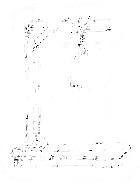
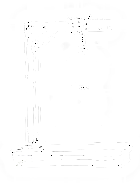
ajout de commentaire a l'ensemble, changement image pendu, ajout fonction wordUpperCase pour la liste de mot

diff --git a/js/initFunction.js b/js/initFunction.js
@@ -1,3 +1,62 @@
+// fonction du random
+const getRandomInt = (min, max) => {
+    min = Math.ceil(min);
+    max = Math.floor(max);
+    return Math.floor(Math.random() * (max - min + 1)) + min;
+  }
+  
+// Conversion des tableaus en majuscule
+function lowerToUpper(){
+    for (let word of wordsToUpperCase){
+        let toUpper = word.toLocaleUpperCase();
+        words.push(toUpper);        
+    }
+    return words;
+} 
+
+// fonction qui permet de choisir un mot de la liste au hazar
+const pickWord = () => {
+    const randomIndex = getRandomInt(0, words.length - 1);
+    return words[randomIndex];
+};
+
+// fonction pour la création du tableau de lettre du mot rechercher
+const getWordMapping = (word) => {
+    const wordArr = word.split('');
+    const wordMapping = wordArr.map((letter, index) => {
+        let isVisible = false;
+        if (index === 0 || index == wordArr.length - 1) {
+            isVisible = true;
+        }
+        return {
+            letter, 
+            isVisible
+        };
+    });
+    return wordMapping;
+};
+
+// fonction de génération du clavier de lettre
+const generateChoices = () => {
+    const choices = [];
+    for(let index = 65; index <= 90; index++) {
+        choices.push(String.fromCharCode(index));
+    }
+    return choices;
+};
+
+// fonction qui recupere la lettre choisi par l'utilisateur
+const getChoicesMapping = (choices) => {
+    const choicesMapping = choices.map((letter) => {
+        return {
+            letter,
+            isChosen: false
+        };
+    });
+    return choicesMapping;
+};
+
+//fonction de l'affichage de la lettre par l'utilisateur
 const displayChoices = (choicesMapping) => {
     const choicesHtml = choicesMapping.map((letterMapping) => {
         if (letterMapping.isChosen === false) {
@@ -9,11 +68,13 @@ const displayChoices = (choicesMapping) => {
     els.choices.querySelector('ul').innerHTML = choicesHtml.join('');
 };
 
+// fonction d'affichage du score restant avant la mort
 const displayScore = () => {
-    // els.score.innerHTML = `${scoreCount} / ${maxScore}`;
-    els.score.innerHTML = `<img src="img/pendu/0${scoreCount}.png" alt="hangman" />`;
+    // els.score.innerHTML = `${scoreCount} / ${maxScore}`;  <== version en donnée brut 
+    els.score.innerHTML = `<img src="img/pendu/0${scoreCount}.png" alt="hangman" />`; // version avec image du pendu
 };
 
+// fonction de remplacement des lettres par des underscores
 const displayWord = (wordMapping) => {
     const wordHtml = wordMapping.map((letterMapping) => {
         if (letterMapping.isVisible === true) {
@@ -26,44 +87,17 @@ const displayWord = (wordMapping) => {
     els.answer.querySelector('ul').innerHTML = wordHtml.join('');
 };
 
-const generateChoices = () => {
-    const choices = [];
-    for(let index = 65; index <= 90; index++) {
-        choices.push(String.fromCharCode(index));
-    }
-    return choices;
-};
+// fonction d'affichage de fin de partie
 
-const getChoicesMapping = (choices) => {
-    const choicesMapping = choices.map((letter) => {
-        return {
-            letter,
-            isChosen: false
-        };
-    });
-    return choicesMapping;
-};
-
-const getWordMapping = (word) => {
-    const wordArr = word.split('');
-    // console.log('word', word);
-    // console.log('wordArr', wordArr);
-    const wordMapping = wordArr.map((letter, index) => {
-        let isVisible = false;
-        if (index === 0 || index == wordArr.length - 1) {
-            isVisible = true;
-        }
-
-        return {
-            letter,
-            isVisible
-        };
-    });
-    return wordMapping;
-};
-
-const pickWord = () => {
-    const randomIndex = getRandomInt(0, words.length - 1);
-
-    return words[randomIndex];
-};
+// Si le score == maxscore: "tu est mort"
+const endGame = () => {
+    wordMapping.forEach(w => w.isVisible = true);
+    displayWord(wordMapping);
+    document.querySelector('body').style.backgroundColor = 'red';
+    els.choices.innerHTML = `<h1 class="d-flex justify-content-center col-lg-12">Vous êtes mort !</h1>`;
+  };
+  
+  // si le mot est trouvé: "tu est libre"
+  const winGame = () => {
+    els.choices.innerHTML = `<h1 class="d-flex justify-content-center col-lg-12">Courez!! vous êtes libre</h1>`;
+  }

diff --git a/js/main.js b/js/main.js
@@ -1,49 +1,44 @@
+// création du tableau des éléments HTML
 const els = {
   score: null,
   answer: null,
   choices: null
 };
 
-// const words = [
-//   'JAVASCRIPT', // words[0]
-//   'STYLESHEET', // words[1]
-//   'LANGUAGE' // words[2]
-// ];
-
+// déclaration des différentes variables nécessaire
 let choices = [];
 let word = '';
 let wordMapping = [];
 let choicesMapping = [];
 let scoreCount = 0;
 let maxScore = 8;
+let words = [];
 
-
+//initialisation et execution du jeu 
 const init = () => {
-  // console.log('>> #init');
 
-  // Attach elements
+  // définition des elements html
   els.score = document.querySelector('#score');
   els.answer = document.querySelector('#answer');
   els.choices = document.querySelector('#choices');
 
-  // Pick word
+  // Transforme tout les mot en majuscule
+  lowerToUpper();
+  // choix du mot
   word = pickWord();
-  // console.log('word', word);
-  //  - create word mapping
+  // création du mot en liste de lettre
   wordMapping = getWordMapping(word);
-  console.log('wordMapping', wordMapping);
-  // Generate choices
+  // Generation du choix de lettre
   choices = generateChoices();
-  // console.log(choices);
-  //  - create choices mapping
+  // recupération du choix de la lettre
   choicesMapping = getChoicesMapping(choices);
-  // console.log(choicesMapping);
-  // Display word
+  // affichage du mot
   displayWord(wordMapping);
-  // Display choices
+  // affichage du clavier de lettre
   displayChoices(choicesMapping);
   // Display score
   // displayScore();
+
   // Listen events
   //    - mouse events
   els.choices.addEventListener('click', ({
@@ -54,12 +49,9 @@ const init = () => {
       checkLetter(target.innerHTML);
     }
   });
+
   //    - keyboard events
-  document.addEventListener('keydown', ({
-    keyCode
-  }) => {
-    // evt:KeyboardEvent evt.keyCode => { keyCode }
-    // console.log('keyCode', keyCode);
+  document.addEventListener('keydown', ({keyCode}) => {
     const letter = String.fromCharCode(keyCode);
     // console.log('letter', letter);
     if (keyCode >= 65 && keyCode <= 90) {
@@ -69,29 +61,29 @@ const init = () => {
 };
 
 // verification de la lettre
-//  - si elle n'est pas dans le mot: ajout de 1 au score
-//  - si elle est dans le mot: afficher la letre
-
 const checkLetter = (letter) => {
-  console.log(letter);
+
   let isLetterInWord = false;
   let isAllLettersFound = true;
-  // console.log('isLetterWord before loop', isLetterInWord);
+
+  //  - si elle est dans le mot: afficher la letre
   wordMapping.forEach((letterMapping) => {
-    // console.log('letterMapping.letter', letterMapping.letter);
     if (letterMapping.letter === letter) {
       letterMapping.isVisible = true;
       isLetterInWord = true;
     }
+    //  - si elle n'est pas dans le mot:
     if (!letterMapping.isVisible) {
       isAllLettersFound = false;
     }
   });
+
   choicesMapping.forEach((letterMapping) => {
     if (letterMapping.letter === letter) {
       letterMapping.isChosen = true;
     }
   });
+
   displayChoices(choicesMapping);
   if (isLetterInWord === true) {
     displayWord(wordMapping);
@@ -106,38 +98,8 @@ const checkLetter = (letter) => {
   if (isAllLettersFound) {
     winGame();
   }
-  // console.log('isLetterWord after loop', isLetterInWord);
 };
-
-//  - endGame
-//     - if score == max: loseGame
-//     - if letter are visible: winGame
-const endGame = () => {
-  wordMapping.forEach(w => w.isVisible = true);
-  displayWord(wordMapping);
-  document.querySelector('body').style.backgroundColor = 'red';
-  els.choices.innerHTML = `<h1 class="d-flex justify-content-center col-lg-12">Vous êtes mort !</h1>`;
-};
-
-const winGame = () => {
-  els.choices.innerHTML = `<h1 class="d-flex justify-content-center col-lg-12">Courez!! vous êtes libre</h1>`;
-}
-
 
 window.addEventListener('load', () => {
   init();
 });
-// Same as #1
-// window.onload = init;
-// Same as #2
-// window.addEventListener('load', init);
-// Same as #3
-// window.onload = () => {
-//     init();
-// };
-
-const getRandomInt = (min, max) => {
-  min = Math.ceil(min);
-  max = Math.floor(max);
-  return Math.floor(Math.random() * (max - min + 1)) + min;
-}

diff --git a/js/listWords.js b/js/listWords.js
@@ -1,6 +1,6 @@
 //----------------------DECLARATION DES TABLEAUX DE MOT-----------------------------------
 
-const words = ["stylo", "chien", "chat", "ordinateur", "verre", "chocolat", "bougie", "cahier", "anticonstitutionnellement", "Palourde", "Creux", "Faire", "Siècle", "Olive", "Comte", "Bluff", "Bronze",
+const wordsToUpperCase = ["stylo", "chien", "chat", "ordinateur", "verre", "chocolat", "bougie", "cahier", "anticonstitutionnellement", "Palourde", "Creux", "Faire", "Siècle", "Olive", "Comte", "Bluff", "Bronze",
   "Claustrophobie", "Amputer", "Somnambule", "Exercice", "Modifier", "Benne", "Longue", "Scientifique", "Tournesol", "Marginal", "Russie", "Esquimau", "Pouls", "Joyau", "Fondue", "Pipeline", "Pauvres", "Dent", "Fausser",
   "Analytique", "Hormones", "Dépression", "Dupliquer", "Urgence", "Concubines", "Bars", "Pieds", "Vol", "JeudiBordeaux", "Sourcils", "Oreille", "Ovale", "Beffroi", "Cintre", "Tube", "alade", "Saveur", "Boulangerie", "Swing",
   "Voler", "Pistolet", "Doublure", "Monstre", "Ventiler", "Baigner", "Pratique", "Objectifs", "Clavier", "Diamant", "Etriers", "Falsifier", "Cerceau", "Parieur", "Roues", "Coma", "Coeur", "Abdomen", "Doigt",

diff --git a/index.html b/index.html
@@ -47,22 +47,26 @@
   <!-- ################################################### MAIN ##################################################################### -->
   <main class="container-fluid vh-100 row">
 
-    <div id="score" class="d-flex col-lg-5">            
+    <div id="score" class="d-flex col-lg-5">
+      <!-- ici vient ce placer l'image du pendu ou le score -->
     </div>
 
     <div id="wrapper" class="d-flex flex-column justify-content-around col-lg-7">
 
         <div id="answer" class="ft-color-pri d-flex">
-            <ul class="d-flex col-lg-12 justify-content-center">              
+            <ul class="d-flex col-lg-12 justify-content-center">
+              <!-- ici vient ce placer les lettres du mot choisi aléatoirement -->
             </ul>
         </div>
 
         <div id="choices" class="ft-color-pri d-flex">
             <ul class="d-flex flex-wrap justify-content-center col-lg-12">
+              <!-- ici vient ce placer les lettres du clavier générer -->
             </ul>
         </div>
 
     </div>
+    <!-- <button type="reset" class="col-lg-3">Rejouer ?</button> -->
 
   </main>
 

diff --git a/faq.html b/faq.html
@@ -83,7 +83,8 @@
         integrity="sha384-ka7Sk0Gln4gmtz2MlQnikT1wXgYsOg+OMhuP+IlRH9sENBO0LRn5q+8nbTov4+1p"
         crossorigin="anonymous"></script>
     <script src="js/plugins.js"></script>
-    <script src="js/main.js"></script>
+    <script src="js/faq.js"></script>
+    
 
     <!-- Google Analytics: change UA-XXXXX-Y to be your site's ID. -->
     <script>

diff --git a/css/main.css b/css/main.css
@@ -171,7 +171,7 @@ ul {
 }
 img {
   margin: auto;  
-  width: 50%;
+  width: 40%;
 }
 
 .disabled {
